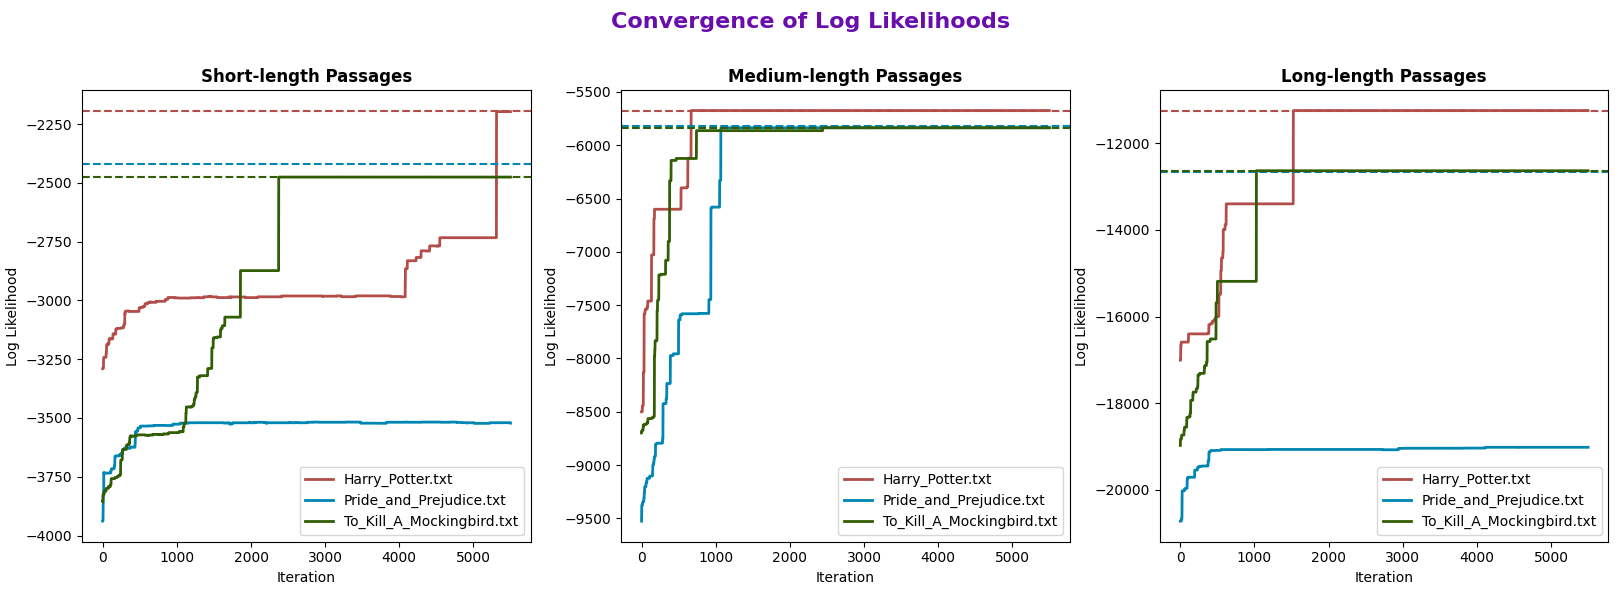
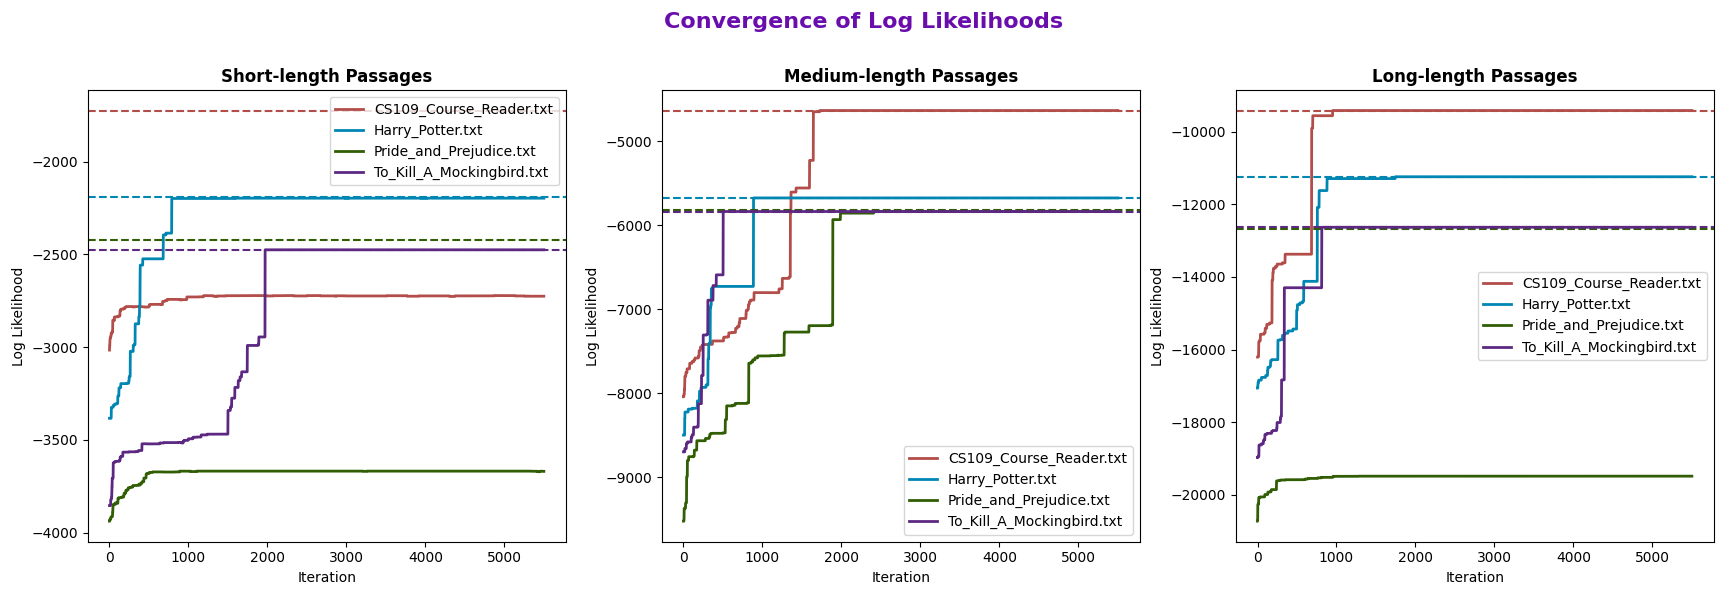
additional passage

diff --git a/test_decryption.py b/test_decryption.py
@@ -62,7 +62,7 @@ def test_predict_longer():
     #     Aristotle's views profoundly shaped medieval scholarship. The influence of his physical science extended from late antiquity and the Early Middle Ages into the Renaissance, and was not replaced systematically until the Enlightenment and theories such as classical mechanics were developed. He influenced Judeo-Islamic philosophies during the Middle Ages, as well as Christian theology, especially the Neoplatonism of the Early Church and the scholastic tradition of the Catholic Church.
     #     Aristotle was revered among medieval Muslim scholars as "The First Teacher", and among medieval Christians like Thomas Aquinas as simply "The Philosopher", while the poet Dante called him "the master of those who know". His works contain the earliest known formal study of logic, and were studied by medieval scholars such as Peter Abelard and Jean Buridan. Aristotle's influence on logic continued well into the 19th century. In addition, his ethics, although always influential, gained renewed interest with the modern advent of virtue ethics."""
     
-    passage_path = "/Users/anjali/Library/CloudStorage/OneDrive-Stanford/Sophomore Year/Fall 2024/CS 109/Challenge Project/long_passages/Harry_Potter.txt"
+    passage_path = "/Users/anjali/Library/CloudStorage/OneDrive-Stanford/Sophomore Year/Fall 2024/CS 109/Challenge Project/medium_passages/CS109_Course_Reader.txt"
     plaintext = read_text_file(passage_path)
     encrypted_text = encrypt_text(plaintext, encryption_map)
     likelihood_right_mapping = compute_log_likelihood(encrypted_text, encryption_map, word_prob_dict)
